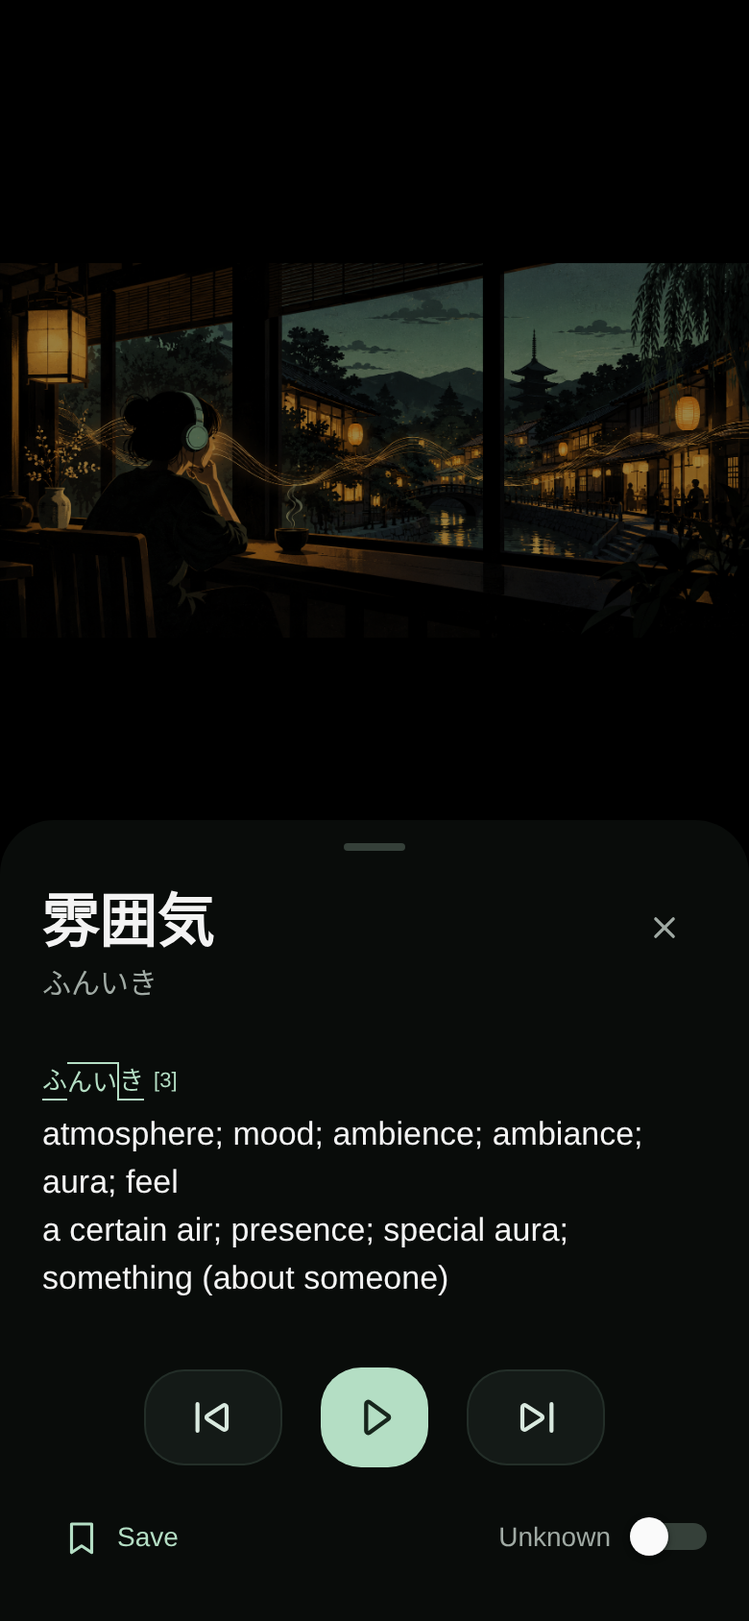
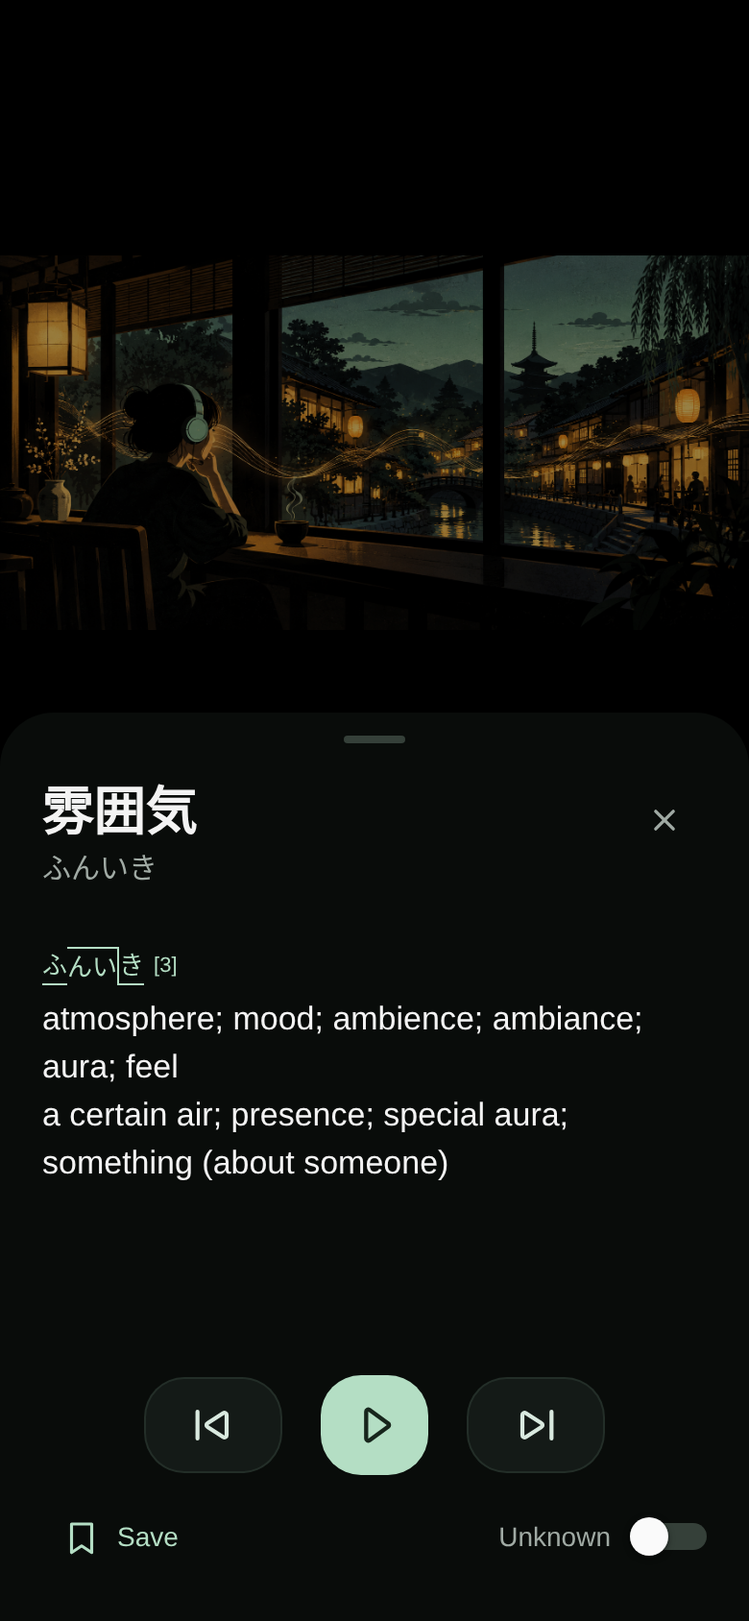
Improve contextual homophone and grammar lookup with stable reading layout

diff --git a/App.tsx b/App.tsx
@@ -25,7 +25,8 @@ import { topics, topicUrl, youtubeUrl, type Caption, type DictionaryEntry } from
 import { dictionaryKey, languageRequest, serviceUrl, type AnalyzedToken, type GeneratedCue, type Transcription } from './src/language';
 
 type Saved = { key: string; word: string; reading: string; meaning: string; sentence: string; title: string; url: string; time: number };
-type Lookup = { token: AnalyzedToken; caption: Caption };
+type Lookup = { token: AnalyzedToken; caption: Caption; before?: string; after?: string; originalToken?: AnalyzedToken };
+type SpellingAlternative = { entry: DictionaryEntry; form: string; likely: boolean };
 const STORAGE = 'immersed.youtube.words.v1';
 const dictionaryCache = new Map<string, DictionaryEntry[]>();
 const analysisCache = new Map<string, AnalyzedToken[]>();
@@ -78,7 +79,6 @@ export default function App() {
   const setSettings = (open: boolean) => openPanel(open ? 'settings' : undefined);
   const setLibrary = (open: boolean) => openPanel(open ? 'words' : undefined);
   const { width, height, fontScale } = useWindowDimensions();
-  const [captionHeight, setCaptionHeight] = useState(0);
   const captionScroll = useRef<React.ComponentRef<typeof ScrollView>>(null);
   const [viewportHeight, setViewportHeight] = useState(height);
   const dockClearance = Math.max(insets.bottom, 12) + 76;
@@ -105,6 +105,7 @@ export default function App() {
   const [subtitleStatus, setSubtitleStatus] = useState('');
   const [error, setError] = useState('');
   const [lookup, setLookup] = useState<Lookup | null>(null);
+  const [spellingResult, setSpellingResult] = useState<{ lookup: Lookup; alternatives: SpellingAlternative[] } | null>(null);
   const [dictionaryResult, setDictionaryResult] = useState<{ key: string; entries: DictionaryEntry[]; error: string } | null>(null);
   const lookupKey = lookup ? dictionaryKey(lookup.token) : '';
   const cachedEntries = lookup ? dictionaryCache.get(lookupKey) : undefined;
@@ -118,8 +119,9 @@ export default function App() {
   const [readings, setReadings] = useState(true);
   const [pitchAccent, setPitchAccent] = useState(false);
   const lookupResume = useRef(false);
-  const threeRows = Math.max(180, 3 * (34 + (readings ? 16 : 0)) * fontScale + 6);
-  const normalReadingHeight = Math.min(Math.max(threeRows, captionHeight) + 108 + dockClearance, height * .68);
+  const threeRows = Math.max(180, (width < 350 ? 4 : 3) * (34 + (readings ? 16 : 0)) * fontScale + 6);
+  const coverageHeight = Math.max(36, 30 * fontScale);
+  const normalReadingHeight = Math.min(threeRows + 80 + coverageHeight + dockClearance, height * .68);
   const readingHeight = Math.min(panel ? Math.max(normalReadingHeight, height * .57) : normalReadingHeight, Math.max(dockClearance + 120, Math.min(height, viewportHeight) - 128));
   const [aboutExpanded, setAboutExpanded] = useState(false);
   const [preferencesReady, setPreferencesReady] = useState(false);
@@ -261,12 +263,34 @@ export default function App() {
     const cached = dictionaryCache.get(key);
     if (cached) return;
     const timer = setTimeout(() => controller.abort(), 12000);
-    void languageRequest<{ data: DictionaryEntry[] }>('dictionary', { word: lookup.token.lemma, reading: lookup.token.reading, proper: String(!!lookup.token.proper) }, controller.signal).then(result => {
+    void languageRequest<{ data: DictionaryEntry[] }>('dictionary', { word: lookup.token.lemma, reading: lookup.token.reading, proper: String(!!lookup.token.proper), pos: lookup.token.pos }, controller.signal).then(result => {
       dictionaryCache.set(key, result.data);
       if (active) setDictionaryResult({ key, entries: result.data, error: '' });
     }).catch(() => { if (active) setDictionaryResult({ key, entries: [], error: 'Dictionary unavailable. Check your connection and tap the word again.' }); }).finally(() => { clearTimeout(timer); });
     return () => { active = false; clearTimeout(timer); controller.abort(); };
   }, [lookup]);
+  useEffect(() => {
+    if (!lookup || lookup.originalToken || lookup.token.pos !== 'noun' || lookup.token.proper || lookup.token.text !== lookup.token.lemma) return;
+    const controller = new AbortController();
+    const current = lookup;
+    const timer = setTimeout(() => controller.abort(), 22000);
+    void languageRequest<{ alternatives: SpellingAlternative[] }>('lookup-context', {
+      word: lookup.token.lemma, reading: lookup.token.reading, pos: lookup.token.pos,
+      sentence: lookup.caption.text, start: String(lookup.token.start), end: String(lookup.token.end),
+      before: lookup.before || '', after: lookup.after || '',
+    }, controller.signal).then(result => {
+      if (!controller.signal.aborted) setSpellingResult({ lookup: current, alternatives: result.alternatives });
+    }).catch(() => {}).finally(() => clearTimeout(timer));
+    return () => { clearTimeout(timer); controller.abort(); };
+  }, [lookup]);
+  const chooseSpelling = (alternative: SpellingAlternative) => {
+    const japanese = alternative.entry.japanese[0];
+    if (!lookup || !japanese?.word) return;
+    const token = { ...lookup.token, text: japanese.word, lemma: japanese.word, reading: japanese.reading || lookup.token.reading, pos: 'noun', proper: false, grammar: [] };
+    dictionaryCache.set(dictionaryKey(token), [alternative.entry]);
+    setLookup({ ...lookup, originalToken: lookup.originalToken || lookup.token, token,
+      caption: { ...lookup.caption, text: lookup.caption.text.slice(0, lookup.token.start) + token.text + lookup.caption.text.slice(lookup.token.end) } });
+  };
   const pageVideo = useRef<string | null>(null);
   const handlePage = (url: string) => {
     const canonical = youtubeUrl(url);
@@ -295,7 +319,10 @@ export default function App() {
     if (!caption) return;
     lookupResume.current = !clock.paused;
     if (!clock.paused) { browser.current?.command('pause'); setClock(old => ({ ...old, paused: true })); }
-    setLookup({ token, caption });
+    const index = timeline.findIndex(cue => cue.start === caption.time);
+    setLookup({ token, caption: { ...caption, text: sentence },
+      before: index >= 0 ? timeline.slice(Math.max(0, index - 2), index).map(c => c.text).join('').slice(-120) : '',
+      after: index >= 0 ? timeline.slice(index + 1, index + 3).map(c => c.text).join('').slice(0, 120) : '' });
   };
   const closeLookup = useCallback(() => {
     setLookup(null);
@@ -406,7 +433,7 @@ export default function App() {
         <Text style={s.hint}>Video difficulty estimates use a sample of caption vocabulary and your level/word overrides. The percentage counts familiar words over all sampled vocabulary; unrated words are not assumed known. Grammar, speed and listening comprehension are not measured.</Text>{comparisonReport?.videoId === videoId && <View style={{ marginVertical: 12 }}><Text style={s.emptyTitle}>Caption cross-check</Text>{comparisonReport.data.map(item => <Text key={item.start} style={s.hint}>{Math.floor(item.start)}s · {item.selected || 'no speech'} · {item.reason === 'majority-agreement' ? 'models agree' : item.reason === 'context-alternative' ? 'context suggests alternative' : 'unverified choice'}{item.agreement == null ? '' : ` · text similarity ${Math.round(item.agreement * 100)}%`}</Text>)}</View>}<Text style={s.emptyTitle}>Version history</Text>{history.map(release => <View key={release.version} style={s.entry}><Text style={s.meaning}>{release.version} · {release.date}</Text><Text style={s.reading}>{release.title}</Text>{release.notes.map(note => <Text key={note} style={s.hint}>• {note}</Text>)}</View>)}</View>}
       </ScrollView></View>;
   const libraryPanel = <View testID="words-panel" style={{ flex: 1, minHeight: 0 }}><View style={[s.header, watching && { paddingVertical: 0, minHeight: 44 }]}><Text style={[s.brand, watching && { fontSize: 18, letterSpacing: -0.3 }]}>Words.</Text>{watching && <PlaybackButton dark={dark} paused={clock.paused} onTogglePlayback={togglePlayback} compact />}</View><ScrollView keyboardShouldPersistTaps="handled" contentContainerStyle={{ padding: watching ? 16 : 22, paddingTop: watching ? 4 : 22, paddingBottom: 16 }}><DictionarySearch pitchAccent={pitchAccent} dark={dark} compact={watching} /><Text style={s.emptyTitle}>Saved words</Text>{!saved.length && <Text style={s.hint}>Your saved words and their original video context will appear here.</Text>}{!!storageError && <Text style={s.hint}>{storageError}</Text>}{saved.map(word => <View key={word.key} style={s.entry}><Text style={s.lookupWord}>{word.word}</Text><Text style={s.reading}>{word.reading}</Text><Text style={s.meaning}>{word.meaning}</Text><Text style={s.sentence}>{word.sentence}</Text><Text style={s.hint}>{word.title}</Text><View style={s.row}><Button onPress={() => { const link = youtubeUrl(word.url); if (link) { setLibrary(false); browse(`${link}&t=${Math.floor(word.time)}s`); } }}>Watch context ↗</Button><Button onPress={() => setSaved(old => old.filter(w => w.key !== word.key))}>Remove</Button></View></View>)}</ScrollView></View>;
-  const lookupContent = <LookupSheet pitchAccent={pitchAccent} lookup={lookup} dark={dark} entries={entries} loading={loading} error={dictionaryError} onClose={closeLookup}
+  const lookupContent = <LookupSheet alternatives={spellingResult?.lookup === lookup ? spellingResult.alternatives : []} onChooseSpelling={chooseSpelling} captionSpelling={lookup?.originalToken?.text} pitchAccent={pitchAccent} lookup={lookup} dark={dark} entries={entries} loading={loading} error={dictionaryError} onClose={closeLookup}
       known={!!lookup && familiarity(lookup.token.lemma, lookup.token.reading, level, knowledge) === 'known'}
       onKnown={known => { if (lookup) setKnowledge(old => ({ ...old, [lookup.token.lemma]: known })); }}
       canSave={storageReady} saved={!!entries[0] && saved.some(word => word.key === `${entries[0].slug}:${entries[0].japanese[0]?.reading ?? ''}`)} onSave={save}
@@ -419,9 +446,9 @@ export default function App() {
       <View testID="video-surface" style={watching ? s.watchVideo : s.browser}><YouTubeBrowser key={browserVersion} ref={browser} uri={uri} dark={dark} hideShorts={hideShorts} minimumMinutes={minimumMinutes} onCaption={receiveCaption} onPage={handlePage} onTranscript={(cues, id, source = 'unknown') => { if (id !== pageVideo.current || captionSourceRank(source) < transcriptRank.current) return; transcriptRank.current = captionSourceRank(source); seenSourceCaption.current = true; setSourceTranscript({ videoId: id, cues }); setSubtitleStatus(''); void saveCaptionCache(id, cues); }} onClock={receiveClock} onError={setError} /></View>
       {watching && <View testID="subtitle-panel" style={[s.study, { height: readingHeight, paddingBottom: dockClearance, paddingHorizontal: panel ? 0 : 12, paddingTop: panel ? 0 : 6 }]} {...(!panel && !lookup ? gestures.panHandlers : {})}>
         {settings ? settingsPanel : library ? libraryPanel : <>
-          <VideoCoverage cues={rawTimeline} level={level} knowledge={knowledge} dark={dark} />
+          <View style={{ height: coverageHeight, justifyContent: 'center' }}><VideoCoverage cues={rawTimeline} level={level} knowledge={knowledge} dark={dark} /></View>
           <ScrollView ref={captionScroll} testID="caption-scroll" style={s.captionScroll} contentContainerStyle={{ paddingVertical: 8, flexGrow: 1, justifyContent: 'center' }}>
-            {sentence ? <><StudySubtitles tokens={tokens} tail={unparsedTail} dark={dark} level={level} knowledge={knowledge} readings={readings} onHeight={next => setCaptionHeight(old => Math.abs(old - next) < 1 ? old : next)} onWord={tapWord} />{!!analysisError && <Text style={s.hint}>{analysisError}</Text>}</> : <Text style={s.captionEmpty}>{subtitleStatus ? 'Japanese subtitles unavailable' : '—'}</Text>}
+            {sentence ? <><StudySubtitles tokens={tokens} tail={unparsedTail} dark={dark} level={level} knowledge={knowledge} readings={readings} onWord={tapWord} />{!!analysisError && <Text style={s.hint}>{analysisError}</Text>}</> : <Text style={s.captionEmpty}>{subtitleStatus ? 'Japanese subtitles unavailable' : '—'}</Text>}
           </ScrollView>
           <SentenceControls dark={dark} paused={clock.paused} onTogglePlayback={togglePlayback} previous={previousSentence === undefined ? undefined : () => skipSentence(-1)} next={nextSentence === undefined ? undefined : () => skipSentence(1)} />
         </>}

diff --git a/src/components/LookupSheet.tsx b/src/components/LookupSheet.tsx
@@ -1,5 +1,5 @@
 import PitchAccent from './PitchAccent';
-import React, { useMemo } from 'react';
+import React, { useMemo, useState, useRef, useEffect } from 'react';
 import { ActivityIndicator, Modal, PanResponder, Pressable, ScrollView, StyleSheet, Switch, Text, View, useWindowDimensions } from 'react-native';
 import { useSafeAreaInsets } from 'react-native-safe-area-context';
 import Svg, { Path } from 'react-native-svg';
@@ -7,46 +7,61 @@ import type { AnalyzedToken } from '../language';
 import type { Caption, DictionaryEntry } from '../youtube';
 
 type Props = {
-  inline?: boolean; pitchAccent?: boolean;
+  inline?: boolean; pitchAccent?: boolean; captionSpelling?: string; alternatives?: { entry: DictionaryEntry; form: string; likely: boolean }[]; onChooseSpelling?: (alternative: { entry: DictionaryEntry; form: string; likely: boolean }) => void;
   lookup: { token: AnalyzedToken; caption: Caption } | null;
   dark: boolean; entries: DictionaryEntry[]; loading: boolean; error: string;
   known: boolean; onKnown: (known: boolean) => void;
   saved: boolean; canSave: boolean; onSave: (entry: DictionaryEntry) => void;
   onClose: () => void; controls: React.ReactNode;
 };
-export default function LookupSheet({ inline = false, pitchAccent = false, lookup, dark, entries, loading, error, known, onKnown, saved, canSave, onSave, onClose, controls }: Props) {
+export default function LookupSheet({ inline = false, pitchAccent = false, captionSpelling, alternatives = [], onChooseSpelling, lookup, dark, entries, loading, error, known, onKnown, saved, canSave, onSave, onClose, controls }: Props) {
   const insets = useSafeAreaInsets();
+  const definitions = useRef<React.ComponentRef<typeof ScrollView>>(null);
+  useEffect(() => { definitions.current?.scrollTo({ y: 0, animated: false }); }, [lookup?.token.lemma]);
+  const [expandedLookup, setExpandedLookup] = useState<Props['lookup']>(null);
+  const moreEntries = expandedLookup !== null && expandedLookup === lookup;
   const { height } = useWindowDimensions();
   const ink = dark ? '#F3F3F3' : '#242D28', muted = dark ? '#A0AAA4' : '#66746A', accent = dark ? '#B4DEC4' : '#344C3F';
   const dismiss = useMemo(() => PanResponder.create({
     onMoveShouldSetPanResponder: (_event, state) => state.dy > 35 && state.dy > Math.abs(state.dx) * 1.5,
     onPanResponderRelease: onClose,
   }), [onClose]);
-  const content = <Pressable accessible={false} testID="dictionary-sheet" onPress={onClose} style={[styles.sheet, inline ? { flex: 1, minHeight: 0, borderRadius: 0, paddingTop: 4, paddingHorizontal: 16, paddingBottom: 0, backgroundColor: dark ? '#000' : '#F7F5EF' } : { backgroundColor: dark ? '#090C0A' : '#F7F5EF', maxHeight: height * 0.82, paddingBottom: Math.max(20, insets.bottom + 10) }]}>
+  const spellingContent = !!alternatives.length && <View testID="same-sound-alternatives" style={{ paddingTop: 10, marginTop: 8, borderTopWidth: StyleSheet.hairlineWidth, borderTopColor: dark ? '#29322C' : '#D8DED5' }}>
+            <Text style={{ color: muted, fontSize: 12, marginBottom: 3 }}>{alternatives.some(alternative => alternative.likely) ? 'Context suggestion' : 'Same reading'}</Text>
+            {alternatives.map(alternative => <Pressable key={alternative.form} accessibilityRole="button" accessibilityLabel={`Use spelling ${alternative.form}`} onPress={event => { event.stopPropagation(); onChooseSpelling?.(alternative); }} style={{ minHeight: 48, paddingVertical: 7 }}>
+              <Text style={{ color: accent, fontSize: 17 }}>{alternative.form}</Text>
+              <Text numberOfLines={2} style={{ color: muted, fontSize: 13, lineHeight: 19 }}>{alternative.entry.senses[0]?.english_definitions.join('; ')}</Text>
+            </Pressable>)}
+          </View>;
+  const content = <Pressable accessible={false} testID="dictionary-sheet" onPress={onClose} style={[styles.sheet, inline ? { flex: 1, minHeight: 0, borderRadius: 0, paddingTop: 4, paddingHorizontal: 16, paddingBottom: 0, backgroundColor: dark ? '#000' : '#F7F5EF' } : { backgroundColor: dark ? '#090C0A' : '#F7F5EF', height: Math.min(height * .72, Math.max(350, Math.min(510, height * .56))), paddingBottom: Math.max(20, insets.bottom + 10) }]}>
         <View {...dismiss.panHandlers} style={{ paddingBottom: inline ? 2 : 14 }}>
           {!inline && <View style={{ width: 32, height: 4, borderRadius: 2, backgroundColor: dark ? '#354039' : '#C5CDC4', alignSelf: 'center', marginBottom: 18 }} />}
           <View style={{ flexDirection: 'row', gap: 12, alignItems: 'center' }}>
             <View style={{ flex: 1 }}>
-              <Text selectable={false} style={{ color: ink, fontSize: inline ? 22 : 30, fontWeight: '600', lineHeight: inline ? 28 : 40 }}>{lookup?.token.text}</Text>
+              <Text selectable={false} style={{ color: ink, fontSize: inline ? 22 : 27, fontWeight: '600', lineHeight: inline ? 28 : 36 }}>{lookup?.token.text}</Text>
               <Text selectable={false} style={{ color: muted, fontSize: inline ? 12 : 15, lineHeight: inline ? 16 : 23 }}>{lookup?.token.reading}</Text>
             </View>
             <Pressable accessibilityRole="button" accessibilityLabel="Close" onPress={event => { event.stopPropagation(); onClose(); }} style={styles.close}>
               <Svg width={22} height={22} viewBox="0 0 24 24" fill="none" stroke={muted} strokeWidth={1.8} strokeLinecap="round" aria-hidden><Path d="m7 7 10 10M17 7 7 17" /></Svg>
             </Pressable>
           </View>
+          {!!captionSpelling && <Text selectable={false} style={{ color: muted, fontSize: 12, marginTop: 5 }}>Caption spelling: {captionSpelling}</Text>}
           {lookup && (lookup.token.lemma !== lookup.token.text || lookup.token.grammar.length > 0) && <Text selectable={false} style={{ color: muted, fontSize: 13, lineHeight: 20, marginTop: inline ? 0 : 7 }}>{[lookup.token.lemma !== lookup.token.text ? lookup.token.lemma : '', ...lookup.token.grammar].filter(Boolean).join(' · ')}</Text>}
         </View>
-        <ScrollView testID="lookup-definitions" style={inline ? { flex: 1, minHeight: 0 } : { maxHeight: Math.min(230, height * 0.3), flexShrink: 1 }} contentContainerStyle={{ paddingBottom: 8 }}>
+        <ScrollView ref={definitions} testID="lookup-definitions" style={{ flex: 1, minHeight: 0 }} contentContainerStyle={{ paddingBottom: 8 }}>
           {loading && <ActivityIndicator accessibilityLabel="Looking up word" color={accent} />}
           {!!error && <Text selectable={false} style={{ color: muted, lineHeight: 23 }}>{error}</Text>}
           {!loading && !error && !entries.length && <Text selectable={false} style={{ color: muted }}>No matching word found.</Text>}
-          {entries.map((entry, index) => <View key={entry.slug} style={{ paddingVertical: inline ? 3 : 10, borderTopWidth: index ? StyleSheet.hairlineWidth : 0, borderTopColor: dark ? '#29322C' : '#D8DED5' }}>
-            {(index > 0 || entry.source === 'JMnedict') && <Text selectable={false} style={{ color: muted, fontSize: 13, lineHeight: 21 }}>{[...new Set(entry.japanese.map(j => [j.word, j.reading].filter(Boolean).join(' ')))].join(' · ')}{entry.source === 'JMnedict' ? ` · ${[...new Set(entry.senses.flatMap(sense => sense.parts_of_speech))].join(' · ')}` : ''}</Text>}
+          {alternatives.some(alternative => alternative.likely) && spellingContent}
+          {(moreEntries ? entries : entries.slice(0, 1)).map((entry, index) => <View key={entry.slug} style={{ paddingVertical: inline ? 3 : 10, borderTopWidth: index ? StyleSheet.hairlineWidth : 0, borderTopColor: dark ? '#29322C' : '#D8DED5' }}>
+            {(index > 0 || entry.source === 'JMnedict' || (entry.source === 'JMdict' && entry.japanese.some(j => j.word && j.word !== lookup?.token.lemma) && /^[ぁ-ゖァ-ヺー]+$/.test(lookup?.token.text || ''))) && <Text selectable={false} style={{ color: muted, fontSize: 13, lineHeight: 21 }}>{[...new Set(entry.japanese.map(j => [j.word, j.reading].filter(Boolean).join(' ')))].join(' · ')}{entry.source === 'JMnedict' ? ` · ${[...new Set(entry.senses.flatMap(sense => sense.parts_of_speech))].join(' · ')}` : ''}</Text>}
             {pitchAccent && <PitchAccent accents={entry.pitch} dark={dark} />}
             <Text selectable={false} style={{ color: ink, fontSize: inline ? 15 : 17, lineHeight: inline ? 21 : 25 }}>{entry.senses.slice(0, 2).map(sense => sense.english_definitions.join('; ')).join('\n')}</Text>
           </View>)}
+          {entries.length > 1 && <Pressable accessibilityRole="button" accessibilityLabel={moreEntries ? 'Show fewer entries' : 'More dictionary entries'} onPress={event => { event.stopPropagation(); setExpandedLookup(moreEntries ? null : lookup); }} style={{ minHeight: 44, justifyContent: 'center' }}><Text style={{ color: accent, fontSize: 13 }}>{moreEntries ? 'Show less' : `Other entries (${entries.length - 1})`}</Text></Pressable>}
+          {!alternatives.some(alternative => alternative.likely) && spellingContent}
         </ScrollView>
-        <View style={{ marginTop: inline ? 2 : 16, marginBottom: inline ? 0 : 12 }}>{controls}</View>
+        <View style={{ marginTop: inline ? 2 : 10, marginBottom: inline ? 0 : 8 }}>{controls}</View>
         <View style={{ flexDirection: 'row', alignItems: 'center', justifyContent: 'space-between', gap: 12 }}>
           <Pressable accessibilityRole="button" accessibilityLabel={saved ? 'Word saved' : 'Save word'} accessibilityState={{ disabled: !canSave || !entries.length || saved }} disabled={!canSave || !entries.length || saved} onPress={event => { event.stopPropagation(); if (entries[0]) onSave(entries[0]); }} style={{ minHeight: inline ? 44 : 48, paddingHorizontal: 10, flexDirection: 'row', alignItems: 'center', gap: 8, opacity: canSave && entries.length ? 1 : 0.35 }}>
             <Svg width={21} height={21} viewBox="0 0 24 24" fill={saved ? accent : 'none'} stroke={accent} strokeWidth={1.8} strokeLinejoin="round" aria-hidden><Path d="M6 4h12v17l-6-4-6 4Z" /></Svg>

diff --git a/tests/immersion.spec.ts b/tests/immersion.spec.ts
@@ -202,6 +202,7 @@ test('dedicated embedded player requests Japanese captions and identifies the ac
   const source = embeddedPlayerSource('M7lc1UVf-VE', 'host.exp.Exponent');
   const url = new URL(source.uri);
   expect(url.pathname).toBe('/embed/M7lc1UVf-VE');
+  expect(url.searchParams.get('controls')).toBe('0');
   expect(url.searchParams.get('cc_load_policy')).toBe('1');
   expect(url.searchParams.get('cc_lang_pref')).toBe('ja');
   expect(source.headers.Referer).toBe('https://host.exp.exponent');
@@ -1022,4 +1023,58 @@ test('an unfinished ASR pass retains a straddling source sentence and does not f
   expect(combineCaptionTracks(primary, source, 12)).toEqual([
     ...primary, { start: 12, end: 15, text: '途中からも必要な言葉' }, source[1],
   ]);
+});
+
+test('grammar ending lookup explains conjecture instead of showing animal nouns', async ({ page }) => {
+  await page.route('**/api/immersion/transcribe?**', route => route.fulfill({contentType:'application/json',body:JSON.stringify({status:'ready',cues:[{start:0,end:10,text:'だろうなって思いました。'}]})}));
+  await page.goto('/');
+  await page.getByRole('textbox').fill('https://youtu.be/M7lc1UVf-VE');
+  await page.getByRole('button',{name:'Go',exact:true}).click();
+  await page.getByRole('button',{name:'Look up だろうなって',exact:true}).click({timeout:12000});
+  const sheet = page.getByTestId('dictionary-sheet');
+  await expect(sheet.getByText(/probably; I suppose/)).toBeVisible();
+  await expect(sheet.getByText(/cormorant|rabbit; hare/)).toHaveCount(0);
+});
+
+test('homophone suggestions do not resize the popup or silently change the video captions', async ({ page }) => {
+  const entry = {slug:'example-jisho',source:'JMdict',japanese:[{word:'事象',reading:'じしょう'}],senses:[{english_definitions:['event; phenomenon'],parts_of_speech:['noun']}]};
+  let provide: (() => void) | undefined;
+  const delay = new Promise<void>(resolve => { provide = resolve; });
+  await page.route('**/api/immersion/lookup-context?**', async route => {
+    await delay;
+    await route.fulfill({contentType:'application/json',body:JSON.stringify({alternatives:[{entry,form:'事象',likely:true}]})});
+  });
+  await page.route('**/api/immersion/transcribe?**', route => route.fulfill({contentType:'application/json',body:JSON.stringify({status:'ready',cues:[{start:0,end:10,text:'個別具体的な自称に興味がある人と'}]})}));
+  await page.goto('/');
+  await page.getByRole('textbox').fill('https://youtu.be/M7lc1UVf-VE');
+  await page.getByRole('button',{name:'Go',exact:true}).click();
+  await page.getByRole('button',{name:'Look up 自称',exact:true}).click({timeout:12000});
+  const sheet = page.getByTestId('dictionary-sheet');
+  await expect(sheet.getByText(/self-proclaimed/)).toBeVisible();
+  const before = (await sheet.boundingBox())!;
+  provide!();
+  const alternative = sheet.getByRole('button',{name:'Use spelling 事象',exact:true});
+  await expect(alternative).toBeVisible();
+  expect((await alternative.boundingBox())!.y).toBeLessThan((await sheet.getByText(/self-proclaimed/).boundingBox())!.y);
+  expect((await sheet.boundingBox())!.height).toBe(before.height);
+  await alternative.click();
+  await expect(sheet.getByText('Caption spelling: 自称',{exact:true})).toBeVisible();
+  await expect(sheet.getByText('event; phenomenon',{exact:true})).toBeVisible();
+  expect((await sheet.boundingBox())!.height).toBe(before.height);
+  await sheet.getByRole('button',{name:'Close',exact:true}).click();
+  await expect(page.getByRole('button',{name:'Look up 自称',exact:true})).toBeVisible();
+});
+
+test('the video does not resize when changing between short and long subtitle lines', async ({ page }) => {
+  await page.route('**/api/immersion/transcribe?**', route => route.fulfill({contentType:'application/json',body:JSON.stringify({status:'ready',cues:[
+    {start:0,end:2,text:'はい。'}, {start:3,end:7,text:'日本語を勉強しています。友達と公園で話します。今日はとても楽しいです。'},
+  ]})}));
+  await page.goto('/');
+  await page.getByRole('textbox').fill('https://youtu.be/M7lc1UVf-VE');
+  await page.getByRole('button',{name:'Go',exact:true}).click();
+  await expect(page.getByRole('button',{name:'Look up はい',exact:true})).toBeVisible({timeout:12000});
+  const before = await page.getByTestId('video-surface').boundingBox();
+  await page.getByRole('button',{name:'Next sentence',exact:true}).click();
+  await expect(page.getByRole('button',{name:'Look up 日本語',exact:true})).toBeVisible();
+  expect(await page.getByTestId('video-surface').boundingBox()).toEqual(before);
 });

diff --git a/src/language.ts b/src/language.ts
@@ -1,7 +1,7 @@
 import Constants from 'expo-constants';
 import { Platform } from 'react-native';
 export type AnalyzedToken = { text: string; word: boolean; lemma: string; reading: string; pos: string; proper?: boolean; grammar: string[]; start: number; end: number };
-export const dictionaryKey = (token: AnalyzedToken) => token.proper ? `${token.lemma}:name:${token.reading}` : token.lemma;
+export const dictionaryKey = (token: AnalyzedToken) => ['particle', 'auxiliary'].includes(token.pos) ? `grammar:${token.pos}:${token.lemma}` : token.proper ? `${token.lemma}:name:${token.reading}` : token.lemma;
 export type GeneratedCue = { start: number; end: number; text: string };
 export type Transcription = { status: 'processing' | 'ready' | 'busy' | 'unavailable'; message?: string; processedSeconds?: number; duration?: number; cues?: GeneratedCue[]; comparisons?: { start: number; end: number; selected: string | null; reason: string; agreement: number | null; candidates: { model: string; text: string; seconds?: number; error?: string }[] }[]; reason?: string; canRetry?: boolean };
 export function serviceUrl(route: string, params: Record<string, string>) {

diff --git a/src/player.ts b/src/player.ts
@@ -2,7 +2,7 @@ export function embeddedPlayerSource(videoId: string, applicationId: string) {
   if (!/^[A-Za-z0-9_-]{11}$/.test(videoId)) throw new Error('Invalid video ID');
   if (!/^[A-Za-z0-9._-]+$/.test(applicationId)) throw new Error('Invalid application identifier');
   const referer = `https://${applicationId.toLowerCase()}`;
-  const params = new URLSearchParams({ playsinline: '1', fs: '0', cc_load_policy: '1', cc_lang_pref: 'ja', hl: 'ja', autoplay: '1', enablejsapi: '1', origin: referer });
+  const params = new URLSearchParams({ playsinline: '1', controls: '0', fs: '0', cc_load_policy: '1', cc_lang_pref: 'ja', hl: 'ja', autoplay: '1', enablejsapi: '1', origin: referer });
   return { uri: `https://www.youtube.com/embed/${videoId}?${params}`, headers: { Referer: referer } };
 }
 export function swipeAction(dx: number, dy: number): 'forward' | 'backward' | null {

diff --git a/src/youtube.ts b/src/youtube.ts
@@ -25,4 +25,4 @@ export function youtubeUrl(input: string): string | null {
 
 export { CAPTION_BRIDGE, YOUTUBE_BOOTSTRAP } from './youtube-page';
 export type Caption = { text: string; tokens: { text: string; word: boolean }[]; time: number; title: string; url: string; language: 'ja' | null; paused: boolean };
-export type DictionaryEntry = { pitch?: import('./pitch').Accent[]; japanese: { word?: string; reading?: string }[]; senses: { english_definitions: string[]; parts_of_speech: string[] }[]; slug: string; source?: 'JMdict' | 'JMnedict' };
+export type DictionaryEntry = { pitch?: import('./pitch').Accent[]; japanese: { word?: string; reading?: string }[]; senses: { english_definitions: string[]; parts_of_speech: string[] }[]; slug: string; source?: 'JMdict' | 'JMnedict' | 'Grammar' };

diff --git a/tests/test_lookup_context.py b/tests/test_lookup_context.py
@@ -1,0 +1,30 @@
+import sys
+import unittest
+from pathlib import Path
+from unittest.mock import patch
+
+sys.path.insert(0, str(Path(__file__).resolve().parents[1] / 'server'))
+from lookup_context import rank
+
+
+class LookupContextTests(unittest.TestCase):
+    def test_screenshot_homophone_is_ranked_without_rewriting_the_source(self):
+        data = {'sentence': '個別具体的な自称に興味がある人と', 'start': 6, 'end': 8,
+                'before': '話をしています。', 'after': '', 'alternatives': [{'form': '事象'}, {'form': '辞書'}]}
+        with patch('lookup_context.ContextScorer') as scorer:
+            scorer.return_value.loss.side_effect = [3.0, 2.6, 3.1]
+            results = rank(data)
+        self.assertEqual(results[0]['form'], '事象')
+        self.assertTrue(results[0]['likely'])
+        self.assertFalse(results[1]['likely'])
+        self.assertEqual(data['sentence'], '個別具体的な自称に興味がある人と')
+        self.assertEqual(scorer.return_value.loss.call_args_list[1].args,
+                         ('個別具体的な事象に興味がある人と', '話をしています。', ''))
+
+    def test_weak_or_worse_context_does_not_claim_a_likely_correction(self):
+        data = {'sentence': '累計がしたいワケではない', 'start': 0, 'end': 2,
+                'alternatives': [{'form': '類型'}]}
+        for alternative_loss in [2.98, 3.1]:
+            with self.subTest(loss=alternative_loss), patch('lookup_context.ContextScorer') as scorer:
+                scorer.return_value.loss.side_effect = [3.0, alternative_loss]
+                self.assertFalse(rank(data)[0]['likely'])

diff --git a/server/lookup_context.py b/server/lookup_context.py
@@ -1,0 +1,21 @@
+"""Rank dictionary homophones as suggestions; never edit source captions."""
+import json
+import sys
+from caption_context import ContextScorer
+from asr_compare import edits, normalize
+
+def rank(data):
+    scorer = ContextScorer()
+    sentence, start, end = data['sentence'], data['start'], data['end']
+    base = scorer.loss(sentence, data.get('before',''), data.get('after',''))
+    results = []
+    for item in data['alternatives']:
+        replacement = sentence[:start] + item['form'] + sentence[end:]
+        loss = scorer.loss(replacement, data.get('before',''), data.get('after',''))
+        gain = (base - loss) * len(normalize(sentence)) / max(1, edits(normalize(sentence), normalize(replacement)))
+        results.append({'form':item['form'], 'loss':loss,
+                        'likely': loss < base - .03 and gain >= 1.5})
+    return sorted(results, key=lambda r:r['loss'])
+
+if __name__ == '__main__':
+    print(json.dumps(rank(json.loads(sys.stdin.read()))), flush=True)

diff --git a/docs/DEVELOPMENT.md b/docs/DEVELOPMENT.md
@@ -241,3 +241,15 @@ Generated token/word end times now survive the engine and ensemble stages. Compl
 Partial generation carries processedSeconds through both progress and ready responses. A fallback source cue that straddles the coverage edge is clipped at the start rather than discarded; verified generated silence does not pull old source text back into the processed interval. The generated cache key is ensemble-context-timing-v2.
 
 Validation covers three simultaneous windows, exact-boundary appends, explicit clears, shared timestamps, source word preservation, word end times/chunk boundaries, partial fallback coverage, and three-row geometry on a 320×667 browser viewport. Real iPhone font/rendering and live YouTube synchronization still need device testing; source audio access is unchanged.
+
+## 0.5.16 — screenshot-driven grammar, homophones and stability
+
+The screenshots distinguish supplied-caption homophone errors (自称 / 事象, 累計 / 類型) from dictionary-routing errors (auxiliary う resolved as a bird noun). Generated-audio reranking cannot repair supplied captions while this cloud cannot acquire audio.
+
+The parser now groups conjectural copulas and spoken quotation (だろう, でしょう, だろうなって) as grammatical units. Content and particle/auxiliary lookups have separate cache keys. Grammar entries are original brief explanations and are used only when POS indicates grammar; context-free dictionary search and noun lookup preserve lexical bird/rabbit senses. Kana-only content lookups show the actual written dictionary form so the noun spelling is visible.
+
+A new bounded lookup-context route extracts dictionary homophones matching the exact reading of a clicked, uninflected noun. Proper nouns and inflected/offset-mismatched tokens are excluded in the client/route. The public pinned rinna context model ranks sentence variants with nearby caption context. It presents at most one strong suggestion, or a unique same-reading alternative without claiming contextual certainty. No candidate text is synthesized and no source caption is changed. Selecting a spelling is explicit: dictionary/knowledge/save use that spelling; the header retains “Caption spelling” and the saved sentence includes the user's chosen spelling. Endpoint concurrency is one scorer, repeated requests share an 80-item cache, timeout is 20 seconds, and model failure falls back only to a unique known homophone. Literal lookup is immediate; suggestions arrive separately.
+
+The popup has a stable device-relative height while definitions scroll, one primary entry by default, optional other entries, and scroll resets only when the selected word changes. The video/reading split reserves a stable three-row viewport (four on narrow devices), instead of resizing the video every time analysis/line height changes. Longer captions remain scrollable. YouTube's documented controls=0 embed parameter requests a minimal player while custom sentence/play controls remain available; YouTube can still show branding and transient overlays.
+
+Validation reproduces the screenshot words, grammar grouping and POS cache separation. Live local context ranking puts 事象 first for 個別具体的な自称に興味がある人と. 累計→類型 has weak language evidence and is shown only as a same-reading alternative, not an automatic correction. Browser tests cover selection without rewriting captions, fixed popup geometry and stable player height across short/long lines. This release adds no OCR or verified audio correction.

diff --git a/docs/SUBTITLE_QUALITY.md b/docs/SUBTITLE_QUALITY.md
@@ -63,3 +63,11 @@ Three identified ways of losing visible words have been fixed: overlapping sourc
 Display timing adds bounded reading time for very short cues and bridges brief gaps, without moving their starts or delaying the next cue. Explicit clears and long silence still clear the display. Word end times are carried through generated processing; this is a timing-data/formatting fix, not newly deployed forced alignment. Kotoba's distributed character timing remains approximate.
 
 The reading panel automatically reserves three rows including furigana, grows for longer text, and retains scrolling beyond its screen-space cap. Timing/caption tests use controlled inputs; the cloud still cannot acquire YouTube audio to prove synchronization on a live video here.
+
+## Supplied captions and lookup help (0.5.16)
+
+The supplied screenshots show publisher-written video text 事象 / 類型 while lookup receives 自称 / 累計. Their pronunciations match, so dictionary lookup alone cannot establish which word was spoken. The う bird/rabbit results expose a separate problem: grammatical use was not routed separately from lexical nouns.
+
+Grammar-aware grouping and lookup fix the latter. For uninflected nouns, same-reading dictionary spellings may be ranked with the current sentence and nearby caption text, even when audio is unavailable. A strong suggestion appears as a context suggestion; a unique but weakly supported homophone is labeled only “Same reading.” Selecting it is explicit and does not rewrite the visible source subtitles.
+
+Measured text-only examples: the small Japanese LM scored the 事象 sentence at 2.6191 vs 自称 at 3.0251 loss/character. 類型 scored 2.9280 vs 累計 2.9873: this is too weak for the configured context threshold. These are screenshot-text diagnostics, not recognition error-rate measurements or proof about the audio. No per-word/video hardcoded correction table was added.

diff --git a/README.md b/README.md
@@ -41,6 +41,7 @@
 - **Natural content:** browse ordinary Japanese daily life, food, travel, science, gaming and conversation. Discovery is language-biased search, not a verified Japanese-only feed.
 - **Check confusing phrases:** a compact Japanese context model can choose a close-sounding alternative already proposed by a recognizer. Morphology guards protect proper/unknown words, numbers and negation; this is language plausibility, not verified speech.
 - **Compare generated captions:** ReazonSpeech, Whisper Small and Kotoba Whisper evaluate the same audio chunks progressively. The worker keeps candidate phrases, disagreement and timings; the current CPU preview cannot deliver guaranteed real-time three-model recognition. Settings → About contains the latest comparison report. Source-audio access is still blocked in this preview.
+- **Resolve caption mix-ups:** word lookups explain grammatical endings and can suggest a same-reading spelling from sentence context. For example, 事象 may fit a caption misheard as 自称. Suggestions do not rewrite source captions automatically.
 - **Tap to understand:** automatic word/grammar grouping, dictionary forms and readings. Tapping a subtitle opens the word popup, pauses playing video, and resumes on dismissal. Save and a bottom-right known/unknown switch stay within reach. Dictionary search is a separate panel that leaves playback running.
 - **Your level, less clutter:** choose a completed JLPT level. Text stays white in dark mode; unfamiliar words have a soft highlight. Light mode uses dark text for readability. Optional furigana appears on harder kanji words. Known/unknown choices override estimates.
 - **Optional pitch accents:** enable Settings → Pitch accent to see recorded Tokyo accent patterns in word lookups and Dictionary search, using Kanjium data. Patterns refer to dictionary forms; sentence pronunciation and inflections can differ.

diff --git a/CHANGELOG.md b/CHANGELOG.md
@@ -2,6 +2,14 @@
 
 Dates use Asia/Tokyo. Each released update has a matching Git tag and GitHub Release.
 
+## 0.5.16 — 2026-10-30
+
+Improve grammar lookups and caption homophone suggestions
+
+- Group conjectural grammar such as だろうなって; distinguish auxiliary う from dictionary animal nouns with POS-specific caches.
+- Add context-ranked same-reading spelling suggestions for supplied captions, including 自称/事象 and 累計/類型. Explicit selection preserves the original caption spelling.
+- Stabilize the video split and word popup height, collapse extra dictionary entries and request minimal YouTube controls. Source captions can still be wrong; no OCR or verified audio correction is added.
+
 ## 0.5.15 — 2026-10-30
 
 Keep subtitle words visible and improve reading timing
